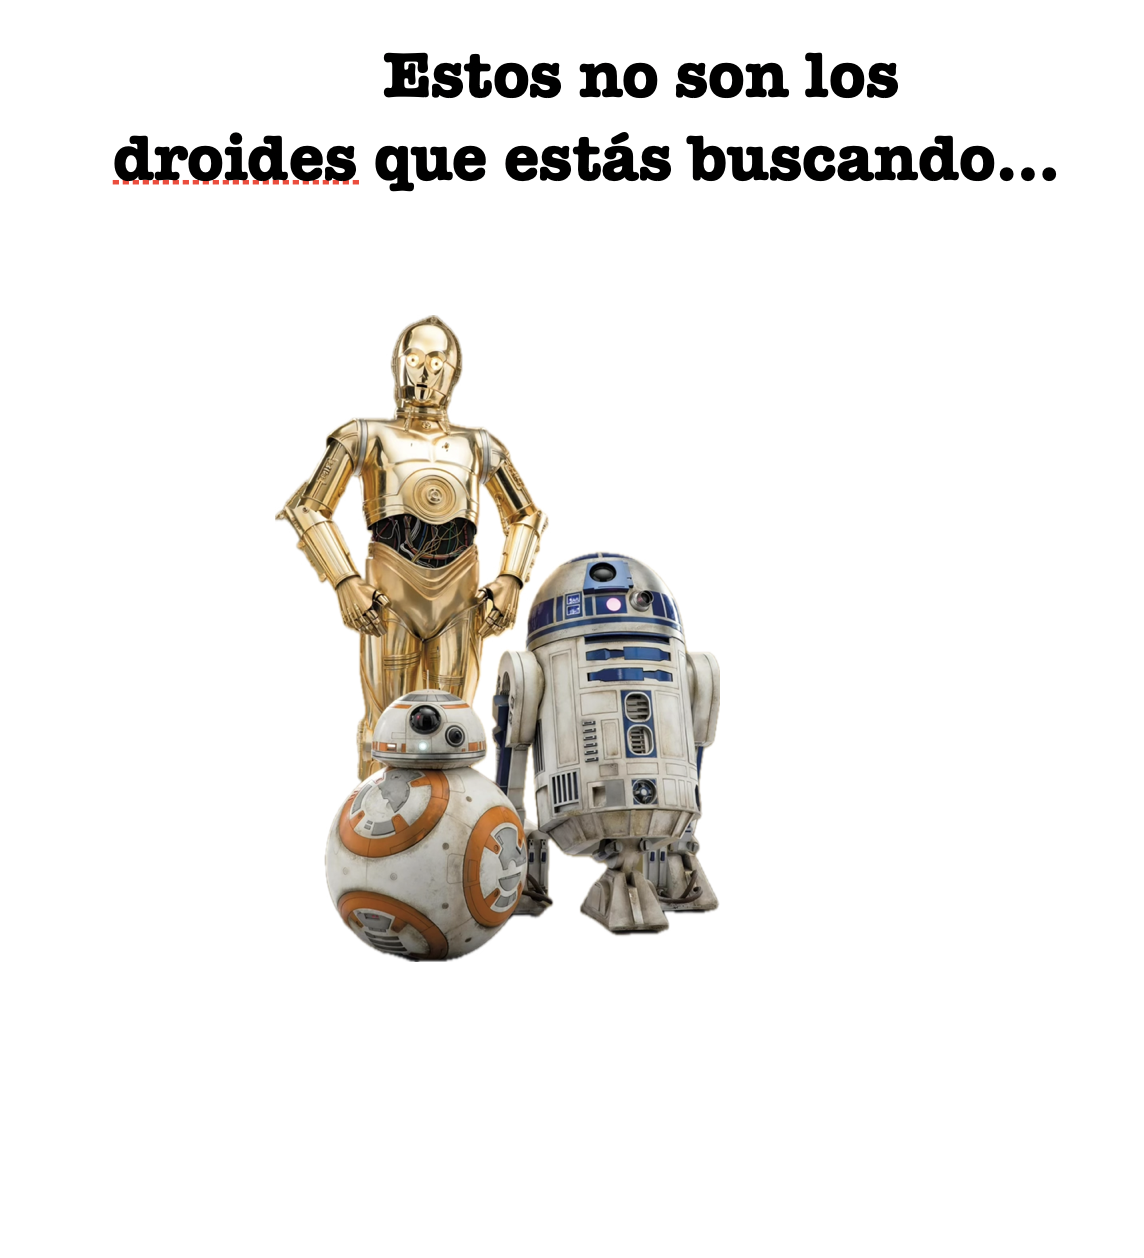
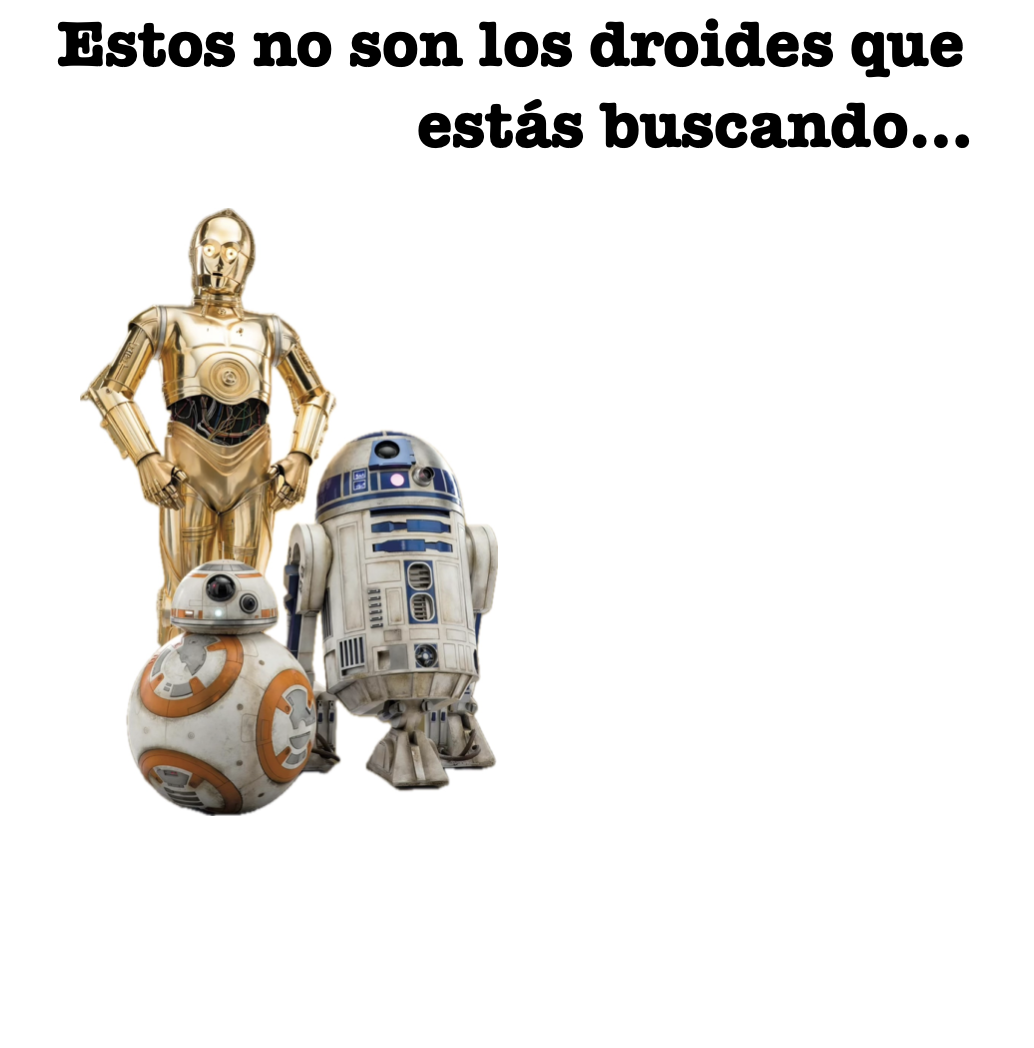
Trabajando en el css del componente not-found-page.ts

Changed region(s): [[0.0619, 0.1832, 0.6499, 0.7939], [0.0619, 0.0, 0.9594, 0.1527]]

diff --git a/src/pages/not-found/not-found-page.ts b/src/pages/not-found/not-found-page.ts
@@ -1,5 +1,5 @@
 import { LitElement,html,css } from "lit";
-import { customElement, property, state } from "lit/decorators.js";
+import { customElement, state } from "lit/decorators.js";
 import '@material/web/button/filled-button.js';
 import {t, updateWhenLocaleResourcesChange} from '@open-cells/localize';
 
@@ -12,14 +12,9 @@ export class NotFound extends LitElement {
     updateWhenLocaleResourcesChange(this);
   }
 
-  @property({type: String}) public language = 'en';
-
   @state()
-  private _imageName = 'not-found-en.png';
-  private _alt = 'Images of droids';
-  private _cacheBuster = Date.now();
-
-
+  private _lenguage = 'es';
+  private _alt = 'en';
 
 
   static styles = css `
@@ -41,27 +36,17 @@ export class NotFound extends LitElement {
             margin-top: 2rem;
           }
   `;
-
-  updated(changedProperties: Map<string, unknown>) {
-    if (changedProperties.has('language')) {
-      this._imageName = this.language === 'es' ? 'not-found-es.png' : 'not-found-en.png';
-      this._alt = this.language === 'es' ? 'Imágenes de droides' : 'Images of droids';
-      this._cacheBuster = Date.now();
-    }
-  }
-
-  setLanguage(newLanguage: string) {
-    this.language = newLanguage;
-    this.requestUpdate();
-  }
+  
 
 
-  render() {
+  render () {
+    const imageName = this._lenguage === 'es' ? 'not-found-es.png' : 'not-found-en.png';
+    const altName = this._alt === 'es' ? 'Imágenes de droides' : 'Images of droids';
     return html`
     <div class="container-no-found">
       <h2>${t('not-title')}</h2>
       <md-filled-button class="btn-not-found" @click=${() => window.location.href = '/'}>HOME</md-filled-button>
-      <img src="/images/${this._imageName}?${this._cacheBuster}" alt=${this._alt}/>
+      <img src="/images/${imageName}" alt=${altName}/>
     </div>
     `;
   }
